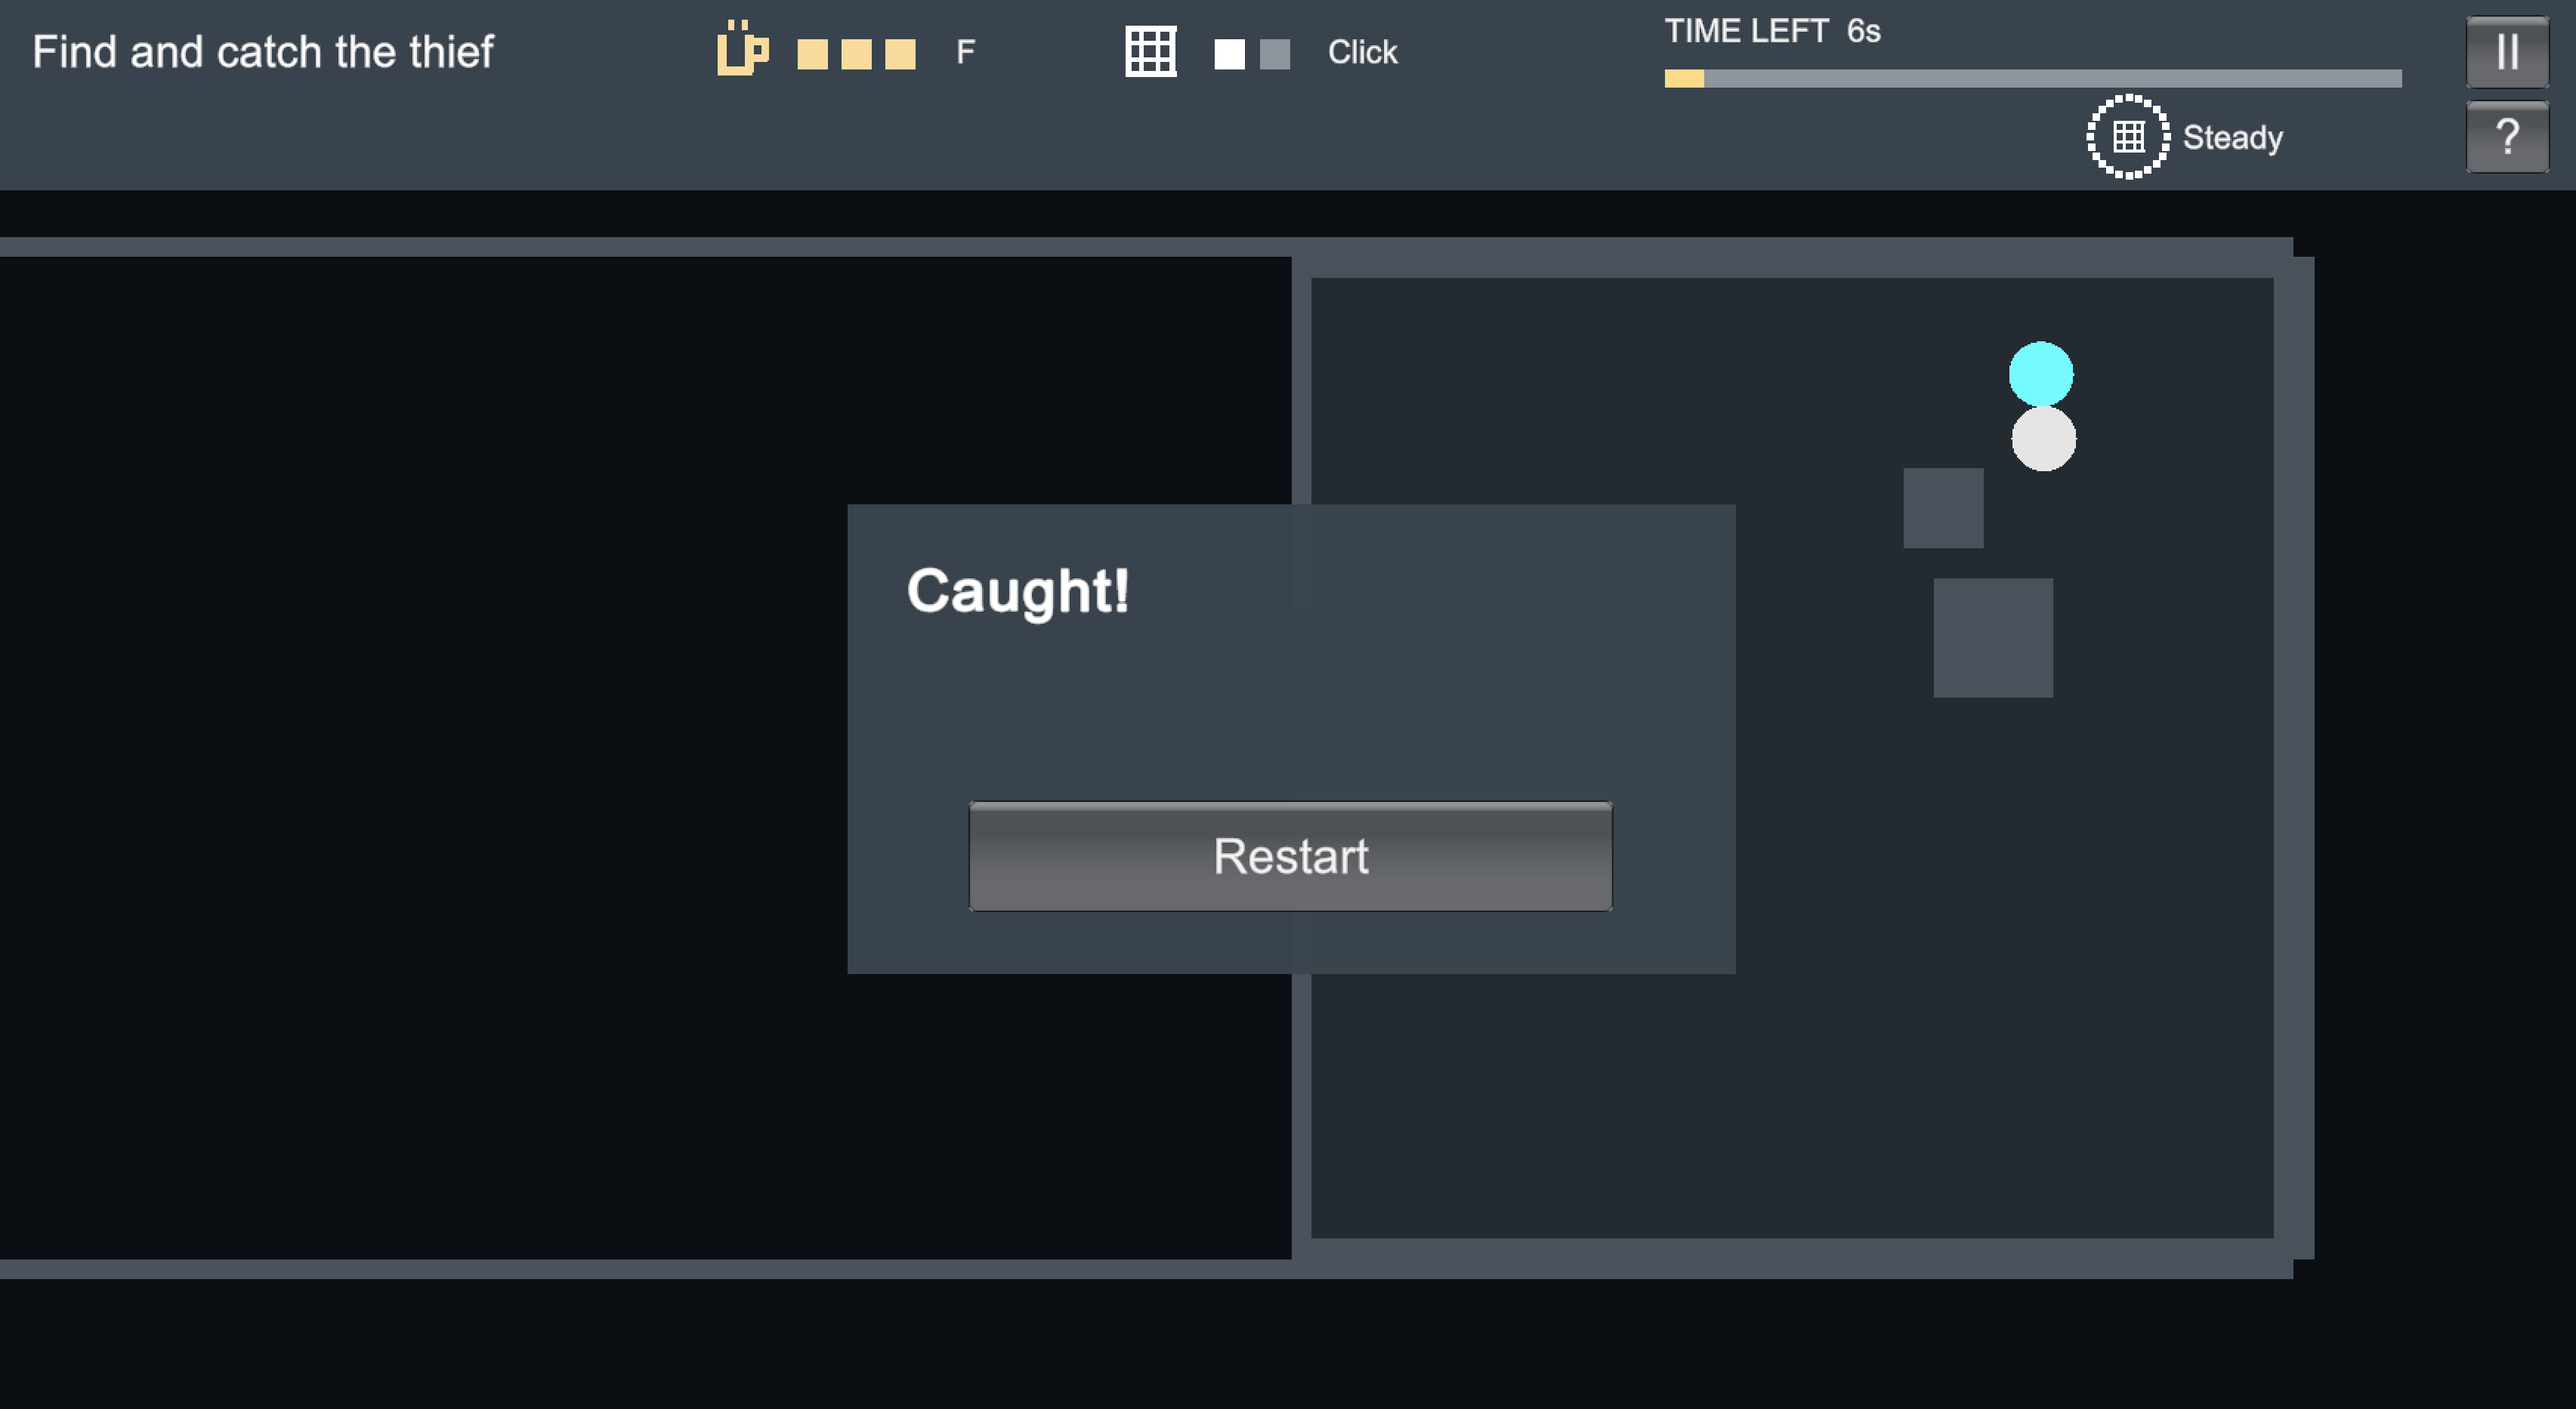
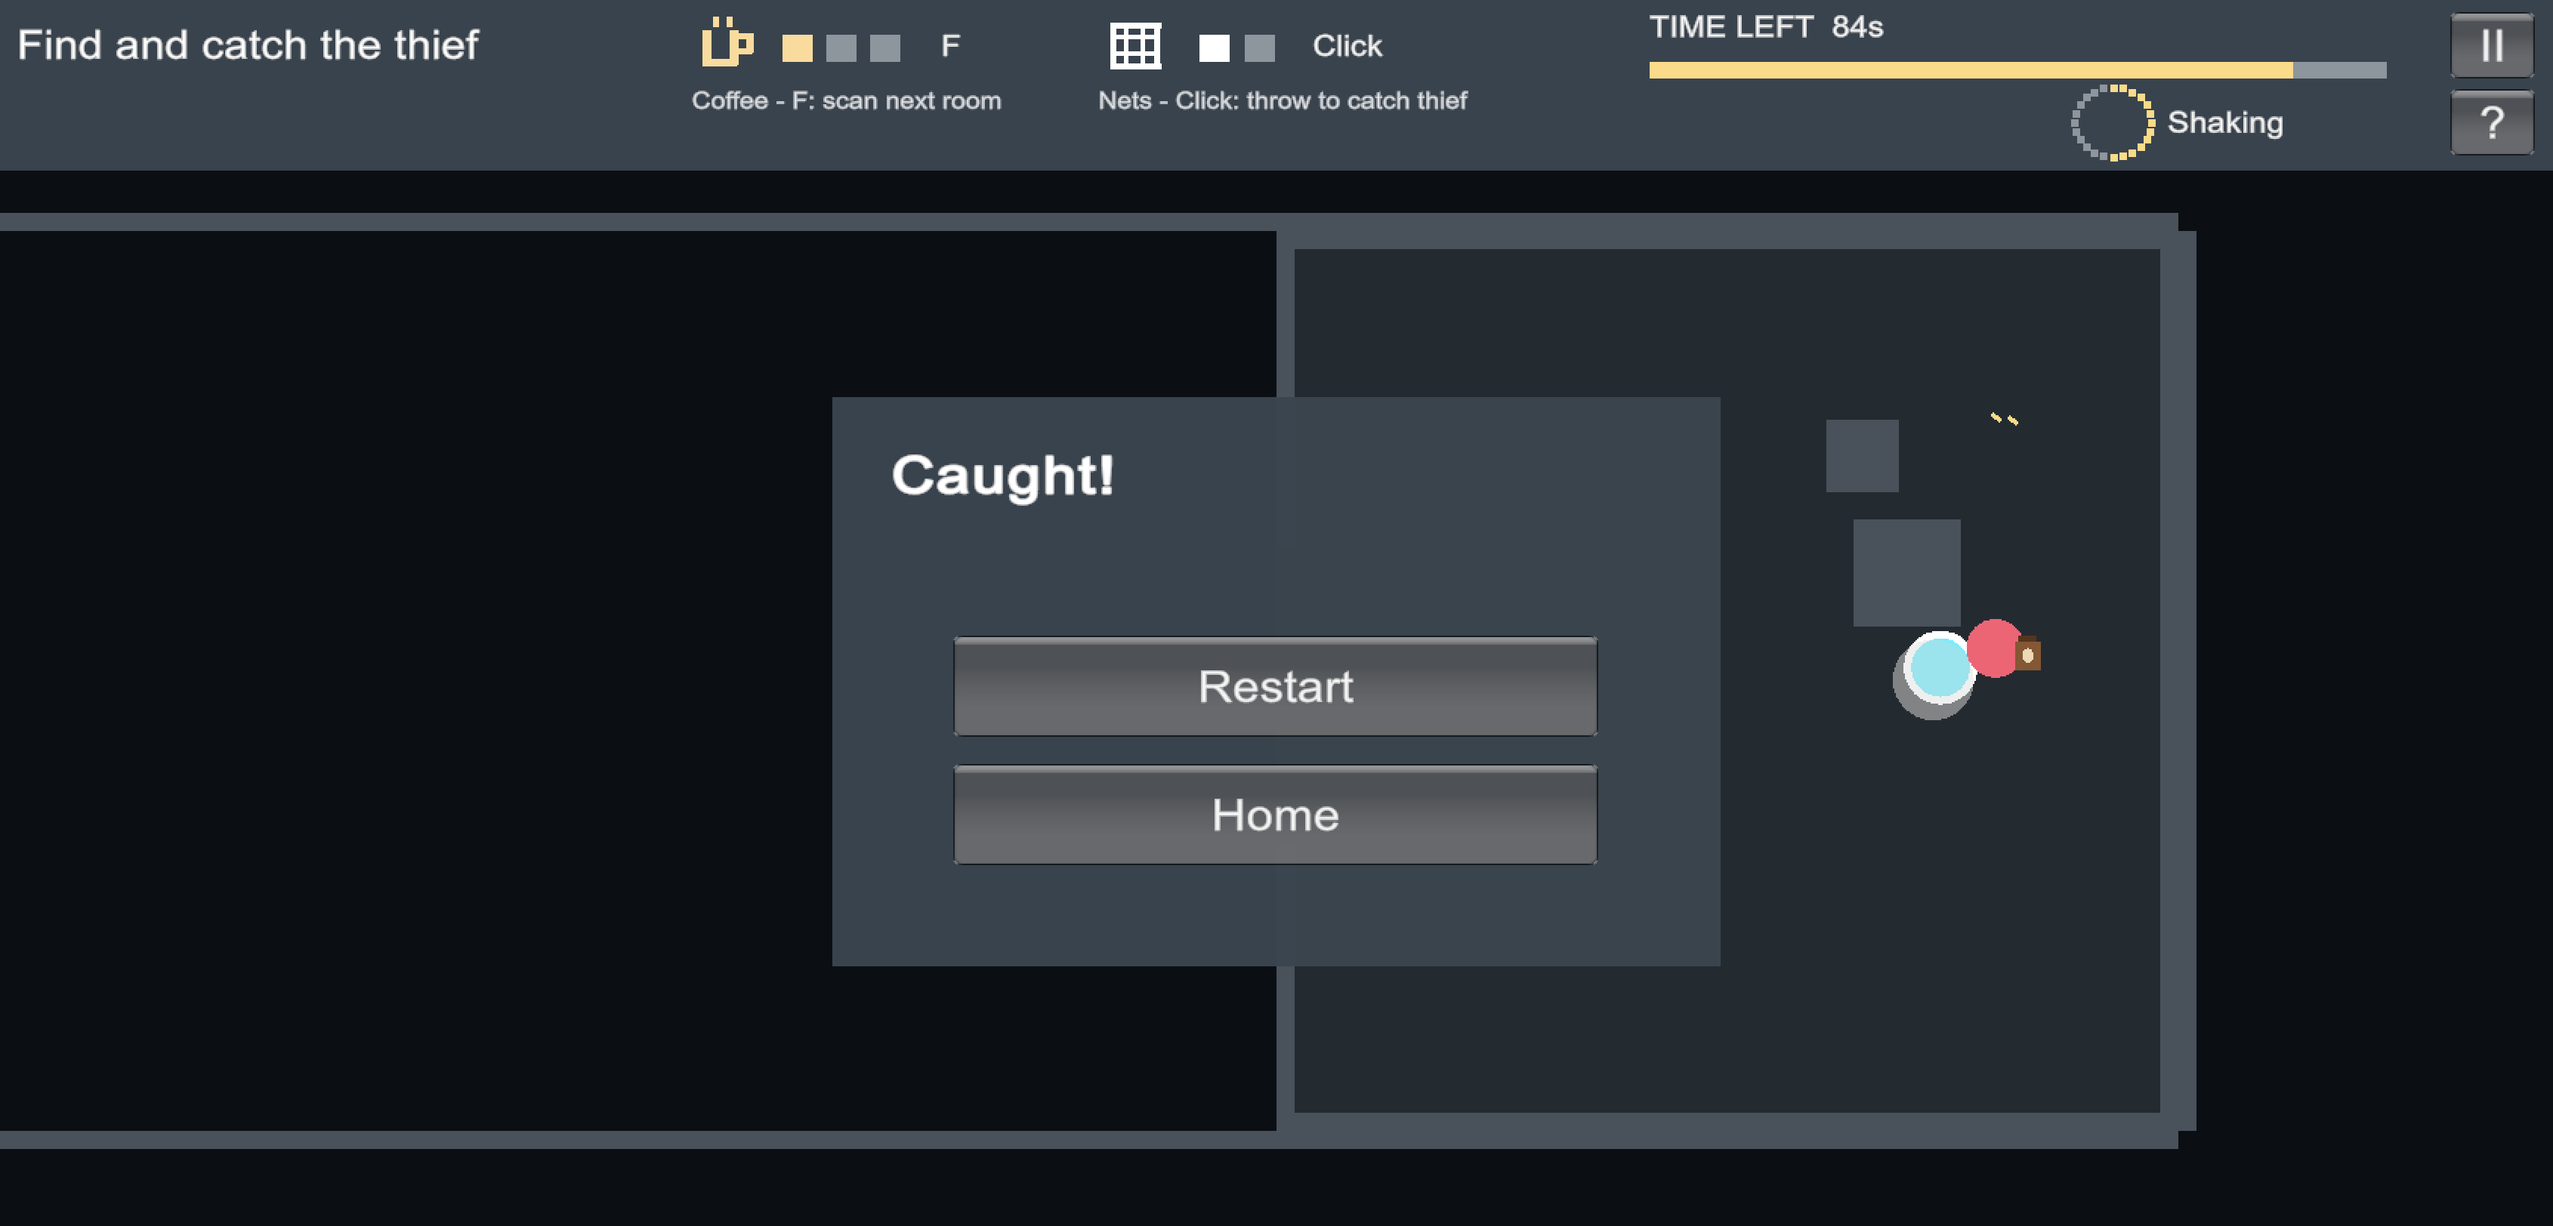
Rebuild WebGL, update screenshots and README

diff --git a/README.md b/README.md
@@ -14,6 +14,8 @@ A thief is on the loose. Watch where they run, track them down, and catch them w
 
 Start from the **home screen**, pick a level, or open **How to Play** to see the controls first.
 
+![Home screen with level select](Screenshots/home.png)
+
 | Level | Description |
 |---|---|
 | **Level 1 – Courtyard to Hideout** | Beginner level that teaches the basics |
